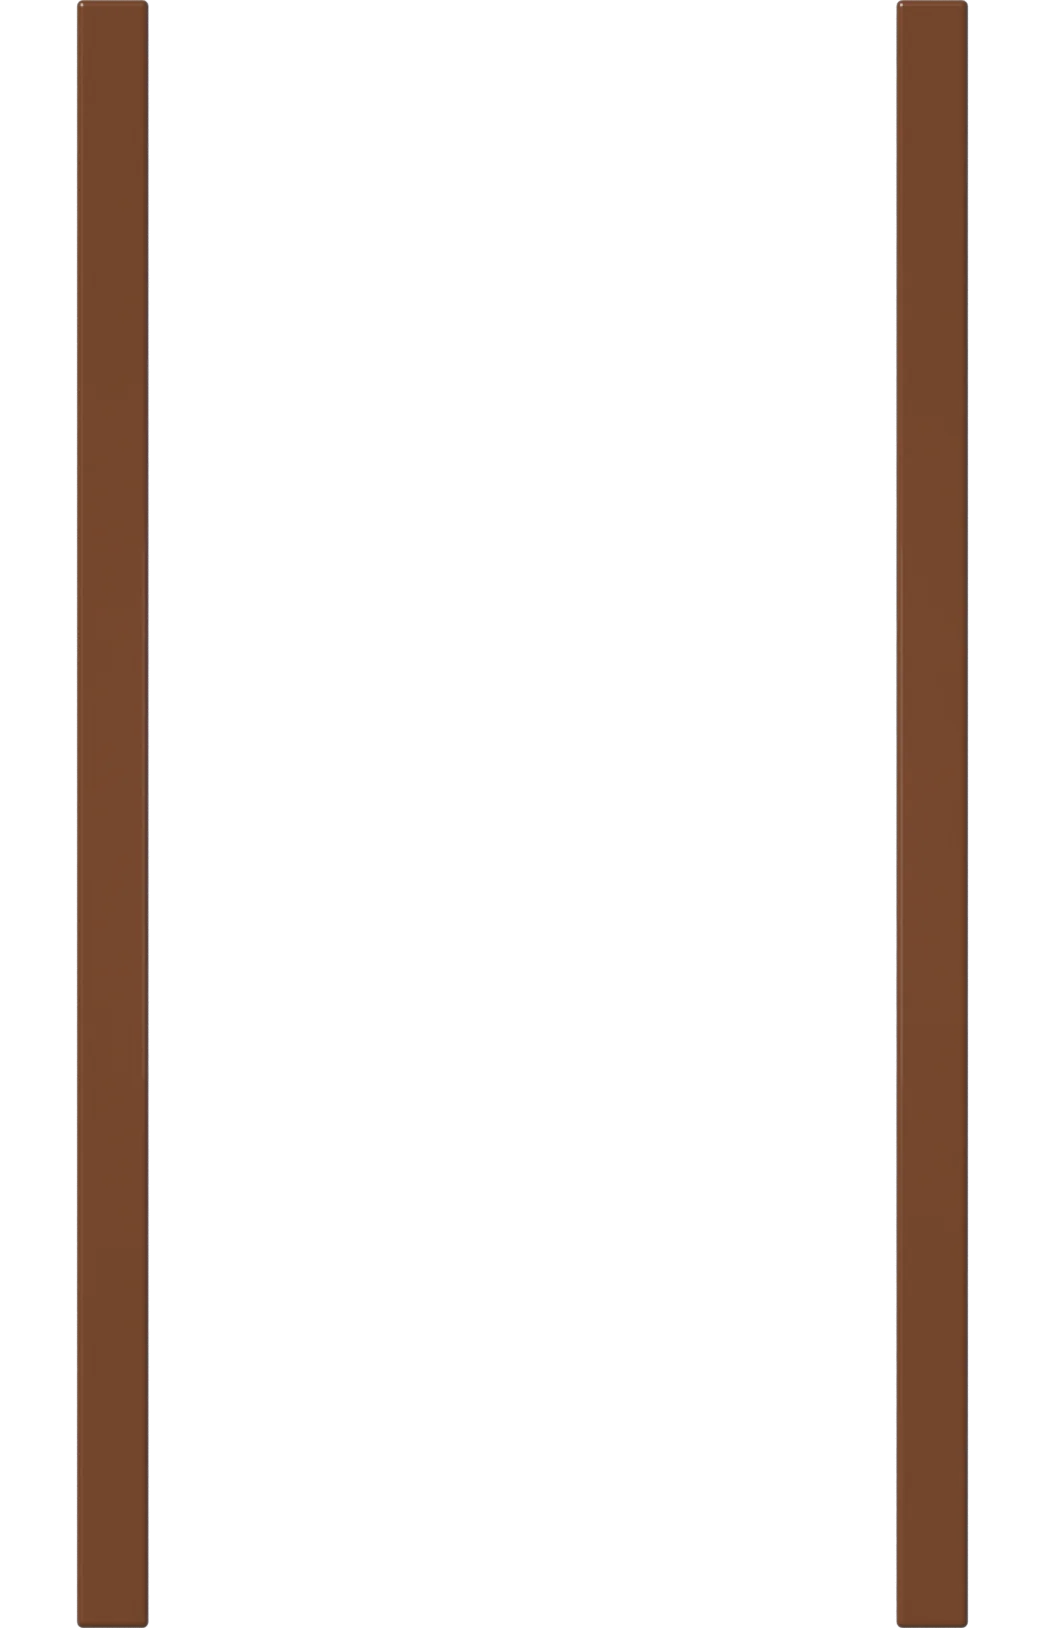
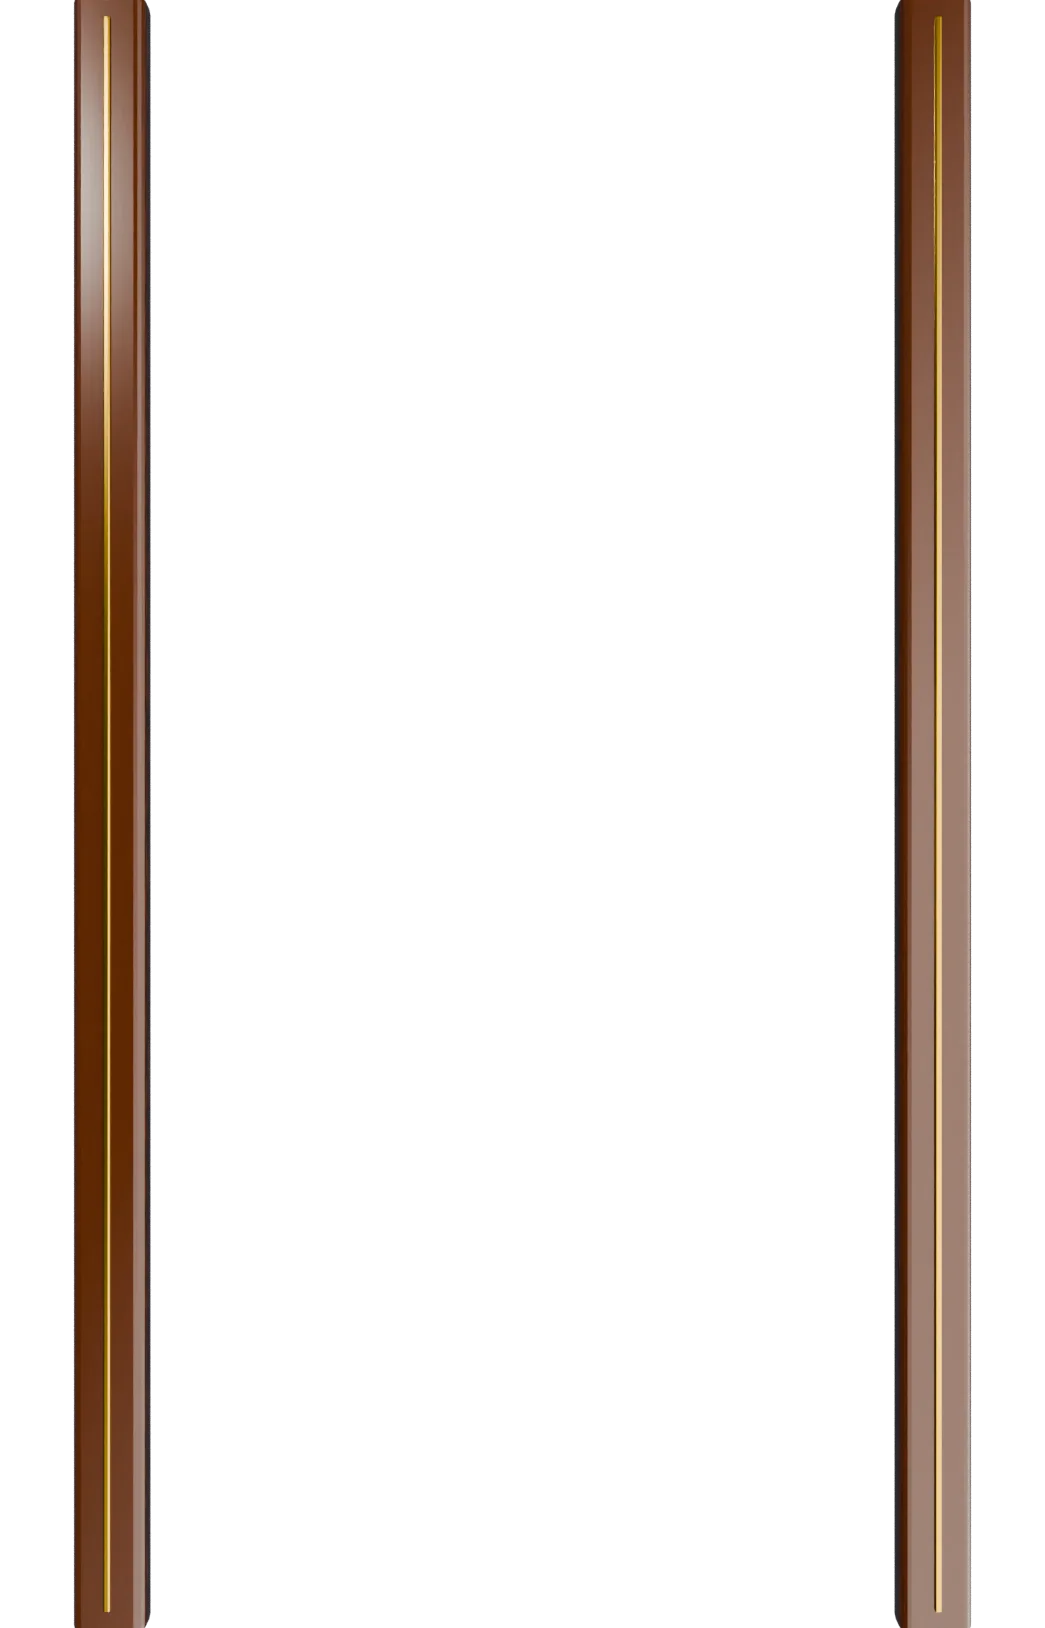
Pinball Pro: Pokemon edition, Blender-rendered tables

Changed region(s): [[0.8574, 0.0, 0.9493, 1.0], [0.0612, 0.0, 0.1531, 1.0]]

diff --git a/games/goo/levels.js b/games/goo/levels.js
@@ -149,11 +149,11 @@ add({
 });
 add({
   id: 'w3l4', world: 3, bounds: [0, 80, 760, 880], killY: 900,
-  terrain: [ground(-200, 150, 620), ground(560, 960, 620)],
-  hazards: [spikes(150, 780, 560, 830)],
+  terrain: [ground(-200, 150, 620), ground(510, 960, 620)],
+  hazards: [spikes(150, 780, 510, 830)],
   anchors: anchorsOn([20, 80, 130], 620),
-  pipe: { x: 670, y: 600, r: 32 }, goal: { type: 'pipe' }, need: 2,
-  plan: [[150, 580], [355, 570], [560, 590], [670, 600]],
+  pipe: { x: 620, y: 600, r: 32 }, goal: { type: 'pipe' }, need: 2,
+  plan: [[150, 580], [330, 570], [510, 590], [620, 600]],
   stock: { goo: 18, heavy: 3 }, stars: [14, 16],
 });
 add({
@@ -207,7 +207,7 @@ add({
   id: 'w4l4', world: 4, bounds: [0, 0, 760, 880], killY: 900,
   terrain: [ground(-200, 170, 620), ground(580, 960, 620)],
   pendulums: [{ px: 375, py: 100, len: 375, r: 32, amp: 0.7, period: 3.0, phase: 0.25 }],
-  winds: [{ x: 170, y: 100, w: 410, h: 800, fx: 300, fy: 0, period: 4, phase: 0.5 }],
+  winds: [{ x: 170, y: 100, w: 410, h: 800, fx: 180, fy: 0, period: 4, phase: 0.5 }],
   anchors: anchorsOn([20, 80, 130], 620),
   pipe: { x: 670, y: 600, r: 32 }, goal: { type: 'pipe' }, need: 2,
   plan: [[170, 580], [375, 590], [580, 590], [670, 600]],
@@ -237,17 +237,17 @@ add({
 // ============================================================= WORLD 5 — Grand finale
 add({
   id: 'w5l1', world: 5, bounds: [0, 80, 800, 880], killY: 900,
-  terrain: [ground(-200, 150, 620), ground(590, 1000, 620)],
+  terrain: [ground(-200, 150, 620), ground(520, 1000, 620)],
   anchors: anchorsOn([20, 80, 130], 620),
-  pipe: { x: 710, y: 600, r: 32 }, goal: { type: 'pipe' }, need: 2,
-  plan: [[150, 580], [370, 590], [590, 590], [710, 600]],
+  pipe: { x: 640, y: 600, r: 32 }, goal: { type: 'pipe' }, need: 2,
+  plan: [[150, 580], [335, 590], [520, 590], [640, 600]],
   stock: { goo: 14, tacky: 8 }, stars: [14, 16],
 });
 add({
   id: 'w5l2', world: 5, bounds: [0, -520, 720, 700], killY: 900,
   terrain: [ground(-200, 920, 640)],
   anchors: anchorsOn([240, 310, 380, 450], 640),
-  goal: { type: 'height', y: -260, base: 640 }, need: 2,
+  goal: { type: 'height', y: -100, base: 640 }, need: 2,
   plan: [],
   stock: { goo: 14, heavy: 4, balloon: 4 }, stars: [18, 21],
 });
@@ -271,12 +271,12 @@ add({
 });
 add({
   id: 'w5l5', world: 5, bounds: [0, 0, 800, 880], killY: 900,
-  terrain: [ground(-200, 150, 620), ground(650, 1000, 620)],
-  hazards: [spikes(150, 300, 650, 370, 'down')],
-  winds: [{ x: 150, y: 200, w: 500, h: 700, fx: 360, fy: 0, period: 3.6, phase: 0 }],
+  terrain: [ground(-200, 150, 620), ground(540, 1000, 620)],
+  hazards: [spikes(150, 300, 540, 370, 'down')],
+  winds: [{ x: 150, y: 200, w: 390, h: 700, fx: 260, fy: 0, period: 3.6, phase: 0 }],
   anchors: anchorsOn([20, 80, 130], 620),
-  pipe: { x: 730, y: 600, r: 32 }, goal: { type: 'pipe' }, need: 2,
-  plan: [[150, 580], [400, 590], [650, 590], [730, 600]],
+  pipe: { x: 660, y: 600, r: 32 }, goal: { type: 'pipe' }, need: 2,
+  plan: [[150, 580], [345, 590], [540, 590], [660, 600]],
   stock: { goo: 24, heavy: 3 }, stars: [18, 21],
 });
 add({

diff --git a/games/pinball/render.js b/games/pinball/render.js
@@ -256,12 +256,29 @@ export function createRenderer(canvas, tb, opts = {}) {
   }
 
   // ------------------------------------------------------------------ helpers
+  const glowCache = new Map();
+  function glowSprite(color) {
+    let g = glowCache.get(color);
+    if (!g) {
+      g = document.createElement('canvas');
+      g.width = g.height = 64;
+      const x = g.getContext('2d');
+      const gr = x.createRadialGradient(32, 32, 0, 32, 32, 32);
+      gr.addColorStop(0, rgba(color, 1));
+      gr.addColorStop(0.35, rgba(color, 0.5));
+      gr.addColorStop(1, rgba(color, 0));
+      x.fillStyle = gr;
+      x.fillRect(0, 0, 64, 64);
+      glowCache.set(color, g);
+    }
+    return g;
+  }
   function glow(c, x, y, r, color, a) {
-    const gr = c.createRadialGradient(x, y, 0, x, y, r);
-    gr.addColorStop(0, rgba(color, a));
-    gr.addColorStop(1, rgba(color, 0));
-    c.fillStyle = gr;
-    c.fillRect(x - r, y - r, r * 2, r * 2);
+    if (a <= 0.01) return;
+    const prev = c.globalAlpha;
+    c.globalAlpha = Math.min(1, a) * prev;
+    c.drawImage(glowSprite(color), x - r, y - r, r * 2, r * 2);
+    c.globalAlpha = prev;
   }
   function hull(c, px, py, r0, tx, ty, r1) {
     const dx = tx - px, dy = ty - py;
@@ -687,6 +704,16 @@ export function createRenderer(canvas, tb, opts = {}) {
     ctx.translate(ox + sx, oy + sy);
     ctx.scale(k, k);
     ctx.drawImage(base, 0, 0, W, H);
+    // dark surround outside the table outline (hides the render's glossy veil there)
+    ctx.fillStyle = '#05050a';
+    ctx.beginPath();
+    ctx.rect(-10, -10, W + 20, H + 20);
+    ctx.moveTo(14, 200);
+    ctx.arc(200, 200, 186, Math.PI, TAU);
+    ctx.lineTo(386, H + 10);
+    ctx.lineTo(14, H + 10);
+    ctx.closePath();
+    ctx.fill('evenodd');
     ctx.save();
     outline(ctx);
     ctx.clip();
@@ -708,7 +735,7 @@ export function createRenderer(canvas, tb, opts = {}) {
     for (const ol of tb.outlanes) {
       if (ol.kickback && sim.kickArmed[ol.side] && sim.live) glow(ctx, ol.x, ol.y - 26, 15, '#7dffb0', 0.55 + 0.35 * Math.sin(tsec * 6));
     }
-    if (game.saver > 0 && game.phase === 'play') glow(ctx, XC, 760, 28, '#ffb340', Math.sin(tsec * (game.saver < 3 ? 14 : 5)) > -0.2 ? 0.95 : 0.1);
+    if (game.saver > 0 && game.phase === 'play') glow(ctx, XC, 742, 14, '#ffb340', Math.sin(tsec * (game.saver < 3 ? 14 : 5)) > -0.2 ? 0.95 : 0.1);
     if (game.mbLit) glow(ctx, tb.ramps[0].entry.x, tb.ramps[0].entry.y, 28, '#ff4d6d', 0.6 + 0.4 * Math.sin(tsec * 9));
     tb.standups.forEach((s, i) => {
       const p = sim.pulse.standups[i];

diff --git a/games/pinball/style.css b/games/pinball/style.css
@@ -214,10 +214,10 @@
 }
 .g-pinball-plunger {
   position: absolute;
-  right: 6px;
-  bottom: 78px;
-  width: 74px;
-  height: 74px;
+  right: 4px;
+  bottom: 70px;
+  width: 58px;
+  height: 58px;
   border-radius: 50%;
   border: 2px solid #8b6a1a;
   background: radial-gradient(circle at 35% 28%, #ffffff 0%, #d7dce6 22%, #8a93a6 55%, #3c4252 100%);
@@ -229,7 +229,7 @@
   box-shadow: 0 8px 14px rgba(0, 0, 0, 0.6), inset 0 -6px 10px rgba(0, 0, 0, 0.35), 0 0 0 3px rgba(243, 194, 74, 0.5);
   cursor: pointer;
   touch-action: none;
-  transform: translateY(calc(var(--p, 0) * 16px));
+  transform: translateY(calc(var(--p, 0) * 12px));
 }
 .g-pinball-plunger::after {
   content: '';
@@ -249,8 +249,8 @@
   inset: -6px;
   border-radius: 50%;
   background: conic-gradient(#f7d774 calc(var(--p, 0) * 360deg), transparent 0);
-  -webkit-mask: radial-gradient(circle, transparent 38px, #000 39px);
-  mask: radial-gradient(circle, transparent 38px, #000 39px);
+  -webkit-mask: radial-gradient(circle, transparent 31px, #000 32px);
+  mask: radial-gradient(circle, transparent 31px, #000 32px);
   pointer-events: none;
 }
 .g-pinball-plunger.down {
@@ -263,12 +263,13 @@
 }
 .g-pinball-nudge {
   position: absolute;
-  left: 50%;
-  transform: translateX(-50%);
-  bottom: 6px;
-  min-width: 96px;
-  height: 40px;
-  border-radius: 14px;
+  left: 4px;
+  bottom: 70px;
+  min-width: 0;
+  width: 52px;
+  height: 52px;
+  padding: 0;
+  border-radius: 50%;
   border: 1px solid rgba(243, 194, 74, 0.55);
   background: linear-gradient(180deg, rgba(40, 36, 26, 0.9), rgba(12, 10, 7, 0.9));
   color: #f7d774;
@@ -276,6 +277,19 @@
   letter-spacing: 1px;
   cursor: pointer;
   touch-action: none;
+}
+.g-pinball-nudge {
+  display: flex;
+  flex-direction: column;
+  align-items: center;
+  justify-content: center;
+  line-height: 1;
+  font-size: 20px;
+}
+.g-pinball-nudge small {
+  font-size: 8px;
+  letter-spacing: 0.4px;
+  margin-top: 2px;
 }
 .g-pinball-nudge.warn {
   border-color: #ff4a3d;

diff --git a/games/pinball/main.js b/games/pinball/main.js
@@ -57,7 +57,7 @@ export async function mount(root, ctx) {
   const dmdWrap = h('div', { class: 'g-pinball-dmdwrap' }, dmdCanvas);
   const canvas = h('canvas', { class: 'g-pinball-canvas', role: 'img', 'aria-label': t('tableLabel') });
   const plungerBtn = h('button', { class: 'g-pinball-plunger', type: 'button', 'aria-label': t('plungerAria') }, h('b', {}, t('plunger')), h('i'));
-  const nudgeBtn = h('button', { class: 'g-pinball-nudge', type: 'button', 'aria-label': t('nudgeAria') }, t('nudge'));
+  const nudgeBtn = h('button', { class: 'g-pinball-nudge', type: 'button', 'aria-label': t('nudgeAria'), title: t('nudge') }, '⇅');
   const hintL = h('div', { class: 'g-pinball-fbtn left', 'aria-hidden': 'true', title: t('leftFlipper') }, h('i'));
   const hintR = h('div', { class: 'g-pinball-fbtn right', 'aria-hidden': 'true', title: t('rightFlipper') }, h('i'));
   const stage = h('div', { class: 'g-pinball-stage', role: 'group', 'aria-label': t('leftFlipper') + ' / ' + t('rightFlipper') }, canvas, hintL, hintR, plungerBtn, nudgeBtn);

diff --git a/games/pinball/build/art.py b/games/pinball/build/art.py
@@ -320,10 +320,37 @@ def paint(spec):
     hexq = [P(ex + 31 * math.cos(math.radians(30 + 60 * k)), ey + 31 * math.sin(math.radians(30 + 60 * k))) for k in range(6)]
     d.polygon(hexq, outline=hexc(spec['emblem_col']) + (255,))
     d.text(P(ex, ey + 1), 'R', font=font(40), fill=hexc(spec['emblem_col']) + (255,), anchor='mm', stroke_width=int(2 * S), stroke_fill=(255, 255, 255, 255))
-    # --- element badges & hazard signs
-    for (bx_, by_, ic, c) in spec['badges']:
-        plate(d, bx_, by_, 9, hexc(c) + (255,))
-        ic(d, bx_, by_, 4.8, (255, 255, 255, 255))
+
+    # --- tapered colour lanes pointing at the ring, with a badge at the far end
+    sl = Image.new('RGBA', (W, H), (0, 0, 0, 0))
+    sd = ImageDraw.Draw(sl)
+    for (ang, col, ic, rin, rout) in spec['strips']:
+        a0 = math.radians(ang)
+        def pt(r, da):
+            return P(RING[0] + r * math.cos(a0 + math.radians(da)), RING[1] + r * math.sin(a0 + math.radians(da)))
+        poly = [pt(rin, -3.6), pt(rout, -6.5), pt(rout, 6.5), pt(rin, 3.6)]
+        sd.polygon(poly, fill=hexc(col) + (235,))
+        sd.line(poly + [poly[0]], fill=(255, 255, 255, 255), width=int(1.6 * S))
+        sd.line([pt(rin + 8, 0), pt(rout - 14, 0)], fill=(255, 255, 255, 120), width=int(1.2 * S))
+    sl = sl.filter(ImageFilter.GaussianBlur(0.5))
+    img.alpha_composite(sl)
+    d = ImageDraw.Draw(img, 'RGBA')
+    for (ang, col, ic, rin, rout) in spec['strips']:
+        bx_ = RING[0] + (rout + 4) * math.cos(math.radians(ang))
+        by_ = RING[1] + (rout + 4) * math.sin(math.radians(ang))
+        plate(d, bx_, by_, 9.5, hexc(col) + (255,))
+        ic(d, bx_, by_, 5, (255, 255, 255, 255))
+
+    # --- scenery bits: lightning, grass, flames
+    for (zx, zy, zc) in spec.get('bolts', []):
+        pts = [P(zx, zy), P(zx - 9, zy + 16), P(zx + 2, zy + 16), P(zx - 10, zy + 38), P(zx + 14, zy + 10), P(zx + 3, zy + 10), P(zx + 12, zy - 6)]
+        d.polygon(pts, fill=hexc(zc) + (230,), outline=(255, 255, 255, 255))
+    for (gx, gy) in spec.get('grass', []):
+        for k in range(5):
+            d.polygon([P(gx + k * 5 - 3, gy), P(gx + k * 5, gy - 12 - (k % 2) * 5), P(gx + k * 5 + 3, gy)], fill=(40, 150, 50, 255), outline=(15, 70, 25, 255))
+    for (fx_, fy_) in spec.get('flames', []):
+        flame_icon(d, fx_, fy_, 7, (255, 140, 30, 255))
+    # --- hazard signs
     for (sx_, sy_) in spec['signs']:
         d.polygon([P(sx_, sy_ - 9), P(sx_ + 10, sy_ + 8), P(sx_ - 10, sy_ + 8)], fill=(255, 215, 40, 255), outline=(20, 20, 20, 255))
         d.line([P(sx_ - 3, sy_ - 1), P(sx_ + 3, sy_ + 5)], fill=(20, 20, 20, 255), width=int(1.6 * S))
@@ -389,11 +416,11 @@ NEON = dict(
     lanes=[(137, '#2fa83c', leaf_icon), (182, '#2a7fe0', drop_icon), (227, '#f07a1c', flame_icon)],
     chevrons=[(46, 476, 0, '#ff9a2a'), (46, 452, 0, '#ff7a1c'), (46, 428, 0, '#ff5a1c'), (322, 350, 0, '#ff9a2a'), (322, 326, 0, '#ff7a1c')],
     arrows=[(46, 482), (46, 458), (46, 434), (322, 356), (322, 332), (322, 308)], arrow_color='#ff8a2a',
-    emblem=(182, 242), emblem_col='#e23636', borders=[200, 225, 250, 292, 318, 340], badges=[(60, 330, leaf_icon, '#2fa83c'), (100, 372, drop_icon, '#2a7fe0'), (268, 372, flame_icon, '#f07a1c'), (306, 330, bolt_icon, '#f0c020')], signs=[(78, 420), (286, 420), (44, 600), (320, 600)], mult_y=372, panel='#f08a1c', panel_rot=-12, panel_pos=(300, 502), mission_labels=['DISCOVER', 'CATCH', 'TRAIN', 'BATTLE'],
+    emblem=(182, 242), emblem_col='#e23636', borders=[200, 225, 250, 292, 318, 340], strips=[(238, '#1f6fd8', drop_icon, 112, 232), (254, '#2fa8e8', eye_icon, 112, 236), (286, '#f0b020', bolt_icon, 112, 236), (302, '#e86a1c', flame_icon, 112, 232)], signs=[(78, 420), (286, 420), (44, 600), (320, 600)], bolts=[(296, 150, '#ffe14a'), (338, 190, '#ffe14a'), (40, 160, '#ffffff')], grass=[(24, 560), (24, 590), (60, 520), (36, 470)], flames=[(344, 540), (330, 575), (300, 440)], mult_y=372, panel='#f08a1c', panel_rot=-12, panel_pos=(300, 502), mission_labels=['DISCOVER', 'CATCH', 'TRAIN', 'BATTLE'],
     mission_pts=[(286 - 2, 478 + 2), (284, 494), (282, 510), (280, 526)],
     figs=[('meowth', 182, 74, 40, False, {}), ('pikachu', 322, 138, 56, True, {}), ('eevee', 94, 535, 46, False, {}),
           ('bulbasaur', 138, 628, 36, False, {}), ('squirtle', 182, 636, 40, False, {}), ('charmander', 226, 628, 38, True, {}),
-          ('mewtwo', XC, 474, 74, False, dict(tint='#3a2478', alpha=0.7, shadow=False)), ('snorlax', 182, 800, 70, False, {})],
+          ('mewtwo', XC, 474, 74, False, dict(tint='#3a2478', alpha=0.7, shadow=False)), ('snorlax', 182, 800, 54, False, {})],
 )
 SPACE = dict(
     id='space', seed=9, night='#2a0f55', sky=['#7a3cff'], mode_y=300, bowl='#6a3cd0', ring='#b030d0', apron='#8a1fb0', badge_y=426, badge=('#7a2fd0',), psychic=True,
@@ -403,11 +430,11 @@ SPACE = dict(
     lanes=[(122, '#e8407a', bolt_icon), (162, '#f0c020', star_icon if False else bolt_icon), (202, '#38c0e8', eye_icon), (242, '#a050f0', flame_icon)],
     chevrons=[(318, 476, 0, '#ff5aa0'), (318, 452, 0, '#ff3a8a'), (46, 520, 0, '#ff9a2a'), (46, 498, 0, '#ff7a1c')],
     arrows=[(46, 526), (46, 504), (318, 482), (318, 458), (318, 434), (46, 548)], arrow_color='#ff5aa0',
-    emblem=(182, 268), emblem_col='#c040f0', borders=[200, 225, 250, 292, 318, 340], badges=[(60, 330, eye_icon, '#38c0e8'), (100, 372, bolt_icon, '#e8407a'), (268, 372, flame_icon, '#f07a1c'), (306, 330, leaf_icon, '#a050f0')], signs=[(78, 420), (286, 420), (44, 600), (320, 600)], mult_y=372, panel='#c02a8a', panel_rot=12, panel_pos=(78, 502), mission_labels=['DISCOVER', 'CATCH', 'TRAIN', 'BATTLE'],
+    emblem=(182, 296), emblem_col='#c040f0', borders=[200, 225, 250, 292, 318, 340], strips=[(238, '#38c0e8', eye_icon, 112, 232), (254, '#e8407a', bolt_icon, 112, 236), (286, '#f07a1c', flame_icon, 112, 236), (302, '#a050f0', leaf_icon, 112, 232)], signs=[(78, 420), (286, 420), (44, 600), (320, 600)], bolts=[(330, 190, '#7ae8ff'), (296, 150, '#7ae8ff'), (50, 190, '#ff7ad8')], grass=[], flames=[(344, 560), (330, 590)], mult_y=350, panel='#c02a8a', panel_rot=12, panel_pos=(78, 502), mission_labels=['DISCOVER', 'CATCH', 'TRAIN', 'BATTLE'],
     mission_pts=[(56, 478 + 2), (58, 494), (60, 510), (62, 526)],
     figs=[('mewtwo', 182, 86, 54, False, {}), ('meowth', 326, 142, 50, True, {}), ('ditto', 300, 520, 26, False, {}),
           ('eevee', 140, 628, 38, False, {}), ('pikachu', 182, 636, 42, False, {}), ('squirtle', 226, 628, 36, True, {}),
-          ('charmander', 70, 640, 30, False, {}), ('snorlax', 182, 800, 70, False, {})],
+          ('charmander', 70, 640, 30, False, {}), ('snorlax', 182, 800, 54, False, {})],
 )
 
 if __name__ == '__main__':

diff --git a/tools/covers/foosball_art.py b/tools/covers/foosball_art.py
@@ -289,7 +289,7 @@ elif MODE == 'rails':
     render('rails', sc)
 elif MODE == 'men':
     CW, CH, PPU = 108, 264, 12
-    sc = setup(CW, CH, 22.0, sun_energy=3.4, world=0.7)
+    sc = setup(CW, CH, 22.0, sun_energy=5.2, world=1.3)
     skin = glossy('#f2c7a0', 0.4, 0.3, name='skin'); hair = glossy('#1b1410', 0.35, 0.5, name='hair')
     shoe = glossy('#111317', 0.25, 0.8, name='shoe'); sole = matte('#f2f2f2', 0.5, name='sole')
     kits = {
@@ -303,12 +303,12 @@ elif MODE == 'men':
         s2 = glossy(k['stripe2'], 0.3, 0.6, name=f's2{team}'); sho = glossy(k['shorts'], 0.35, 0.5, name=f'shorts{team}')
         sk = glossy(k['sock'], 0.35, 0.5, name=f'sock{team}')
         parts = [
-            box((3.8, 2.5, 5.0), sh, loc=(0, -0.9, -1.9), bevel=0.55),
-            box((3.9, 0.5, 5.1), s2, loc=(0, -1.55, -1.9), bevel=0.1),
-            box((3.9, 0.5, 5.1), s1, loc=(0, -0.95, -1.9), bevel=0.1),
-            sphere(0.95, sh, loc=(-1.95, -0.9, 0.3), seg=24), sphere(0.95, sh, loc=(1.95, -0.9, 0.3), seg=24),
-            sphere(1.4, skin, loc=(0, -0.9, 1.9), seg=32),
-            sphere(1.45, hair, loc=(0, -1.15, 2.35), seg=32, scale=(1, 1, 0.6)),
+            box((3.8, 3.4, 5.0), sh, loc=(0, -0.9, -1.9), bevel=0.6),
+            box((3.95, 0.65, 5.1), s1, loc=(0, -0.12, -1.9), bevel=0.12),
+            box((3.95, 0.6, 5.1), s2, loc=(0, 0.5, -1.9), bevel=0.12),
+            sphere(0.95, sh, loc=(-1.95, -1.2, 0.3), seg=24), sphere(0.95, sh, loc=(1.95, -1.2, 0.3), seg=24),
+            sphere(1.1, skin, loc=(0, -1.75, 1.9), seg=32),
+            sphere(1.15, hair, loc=(0, -1.95, 2.3), seg=32, scale=(1, 1, 0.6)),
             box((3.1, 2.0, 2.6), sho, loc=(0, -0.3, -5.6), bevel=0.35),
             box((2.6, 1.7, 2.8), sk, loc=(0, -0.1, -7.6), bevel=0.3),
             box((3.8, 3.4, 1.3), shoe, loc=(0, 0, -8.8), bevel=0.55),

diff --git a/tools/covers/pinball.py b/tools/covers/pinball.py
@@ -7,7 +7,12 @@ import bpy
 # Pokemon-themed pinball machine: the real pre-rendered playfield (games/pinball/art/base_neon.webp) on a tilted cabinet slab.
 new_scene('#4a7bff', '#0a1240', samples=int(os.environ.get('S', 128)))
 ART = os.path.join(os.path.dirname(os.path.abspath(__file__)), '..', '..', 'games', 'pinball', 'art', 'base_neon.webp')
-tex_mat = image_material(ART, 0.25, 0.8, name='field')
+tex_mat = image_material(ART, 0.3, 0.6, name='field')
+_n = tex_mat.node_tree
+_b = _n.nodes['Principled BSDF']
+_t = [n for n in _n.nodes if n.type == 'TEX_IMAGE'][0]
+_n.links.new(_t.outputs['Color'], _b.inputs['Emission Color'])
+_b.inputs['Emission Strength'].default_value = 0.75
 gold = glossy('#f0be3a', 0.25, 0.7, name='gold')
 dark = glossy('#15151f', 0.35, 0.5, name='cab')
 red = glossy('#e8262c', 0.15, 0.9, name='pbred')
@@ -22,7 +27,7 @@ for sx in (-1, 1):
     objs.append(box((0.14, FH + 0.5, 0.45), gold, loc=(sx * (FW / 2 + 0.28), 0, 0.12), bevel=0.05))
 objs.append(box((FW + 0.7, 0.14, 0.45), gold, loc=(0, FH / 2 + 0.28, 0.12), bevel=0.05))
 objs.append(box((FW + 0.7, 0.14, 0.45), gold, loc=(0, -FH / 2 - 0.28, 0.12), bevel=0.05))
-g = parent(objs, rot=(48, 0, 8))
+g = parent(objs, rot=(52, 0, 7))
 # big Poke Ball hero in front of the table
 bx, by, bz, br = -1.9, -2.5, 1.0, 0.95
 objs2 = [sphere(br, white, loc=(bx, by, bz))]
@@ -46,5 +51,5 @@ btn = cylinder(0.26, 0.12, white, loc=(bx, by - br * 0.97, bz), rot=(90, 0, 0), 
 ring = torus(0.27, 0.06, black, loc=(bx, by - br * 0.97, bz), rot=(90, 0, 0))
 sphere(0.34, steel, loc=(1.9, -2.7, 0.7))
 podium('#c9971c', 4.2, 0.5, z=-2.4)
-fit(0.7, 0.25)
+fit(0.72, 0.55)
 render('pinball')

diff --git a/games/pinball/build/table.py b/games/pinball/build/table.py
@@ -90,9 +90,10 @@ bsdf = nt.nodes['Principled BSDF']
 tex = nt.nodes.new('ShaderNodeTexImage')
 tex.image = img
 nt.links.new(tex.outputs['Color'], bsdf.inputs['Base Color'])
-bsdf.inputs['Roughness'].default_value = 0.4
-bsdf.inputs['Coat Weight'].default_value = 0.5
-bsdf.inputs['Coat Roughness'].default_value = 0.1
+bsdf.inputs['Roughness'].default_value = 0.5
+bsdf.inputs['Coat Weight'].default_value = 0.3
+bsdf.inputs['Coat Roughness'].default_value = 0.12
+bsdf.inputs['Specular IOR Level'].default_value = 0.25
 bpy.ops.mesh.primitive_plane_add(size=1)
 pf = bpy.context.active_object
 pf.dimensions = (4.0, 8.0, 0)
